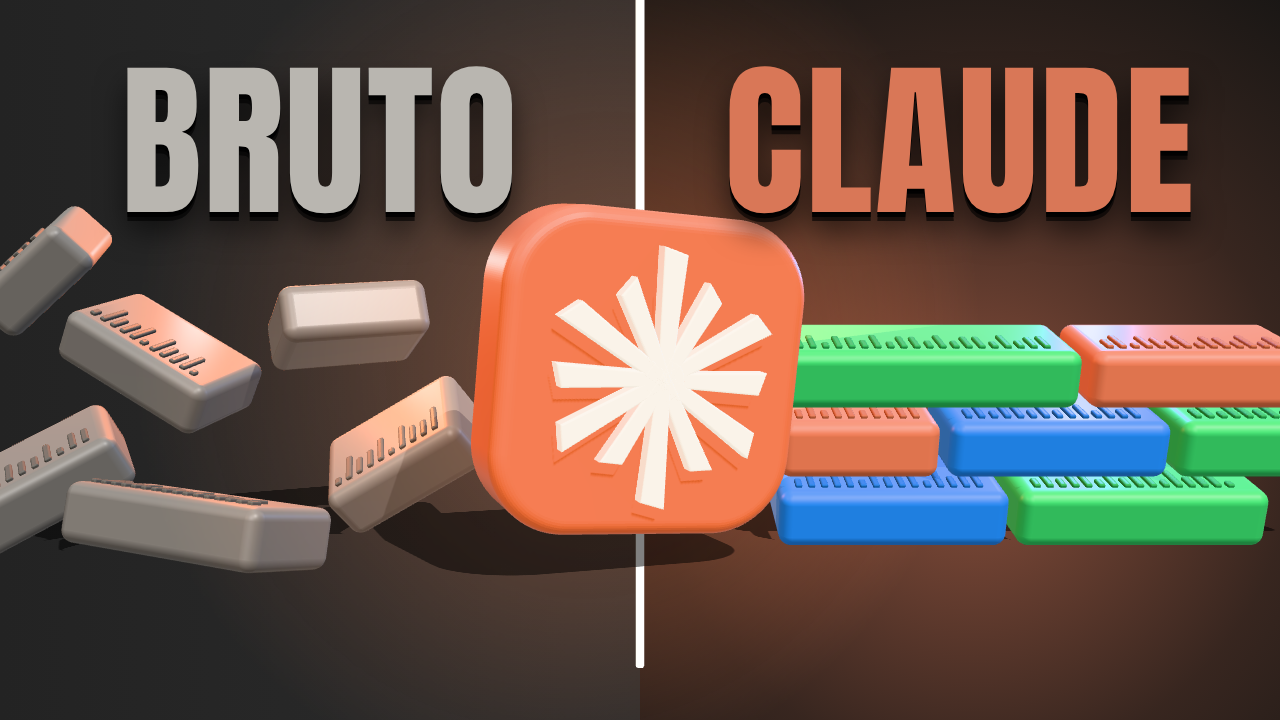
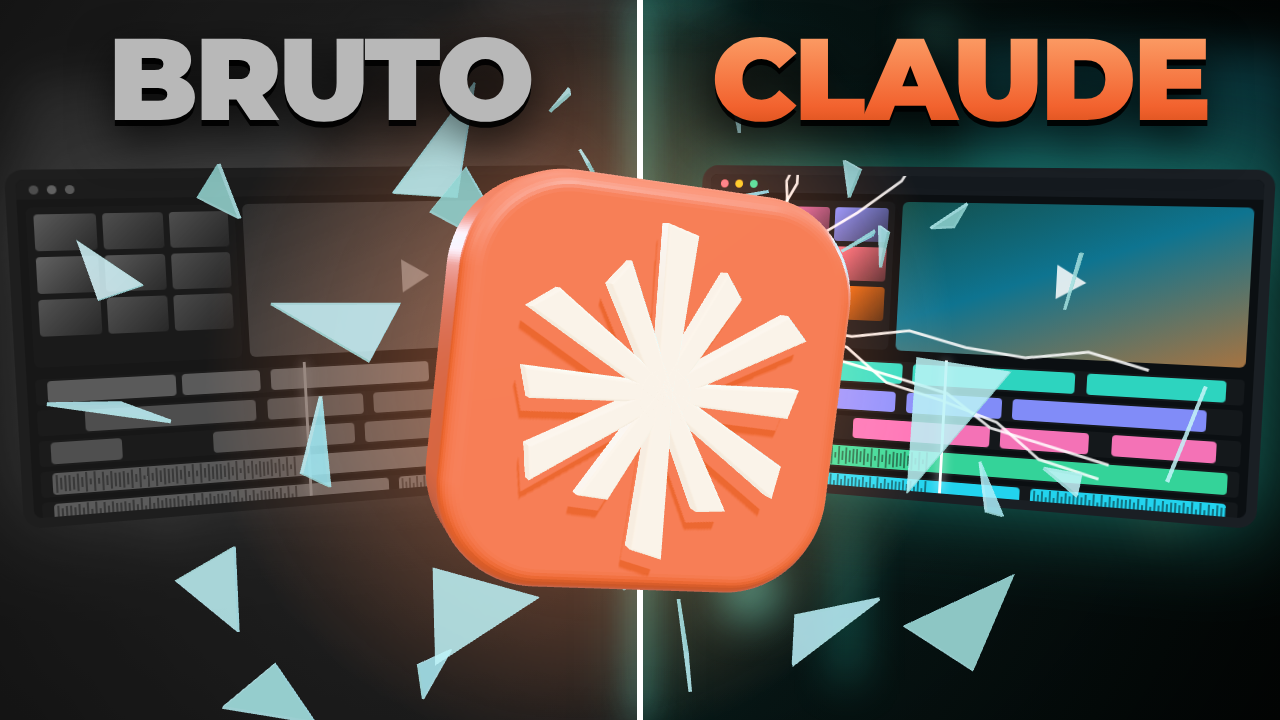
Capas remontadas em camadas: estúdio, tela de edição, bloco gigante e estilhaços
Claude-Session: https://claude.ai/code/session_01Vzt37Nfesv3FfTUpMH7K9L

diff --git a/video-claude-editor/src/Capa.tsx b/video-claude-editor/src/Capa.tsx
@@ -5,6 +5,9 @@ import {cores, vivas, fonte, fonteTitulo} from './tema';
 import {Icone3D} from './tres/Icone3D';
 import {DaVinci3D, Premiere3D} from './tres/Apps3D';
 import {Tela3D} from './tres/Tela3D';
+import {Mascote3D} from './tres/Mascote3D';
+import {Estilhacos} from './tres/Estilhacos';
+import {FundoEstudio, TelaEditor} from './capa/TelaEditor';
 import {Bloco, Clipe3D, Luzes, ChaoSombra} from './tres/pecas';
 import {Camera} from './tres/Camera';
 
@@ -26,114 +29,79 @@ const Etiqueta: React.FC<{children: React.ReactNode; left: number; top: number; 
   <div style={{position: 'absolute', left, top, background: cor, color: texto, fontFamily: fonte, fontWeight: 800, fontSize: tam, padding: '6px 30px', borderRadius: 16, transform: `rotate(${giro}deg)`, boxShadow: '0 5px 0 rgba(0,0,0,0.75), 0 16px 26px rgba(0,0,0,0.5)'}}>{children}</div>
 );
 
-// Capa A: personagem em cima da linha do tempo que se corta sozinha.
+const degradeLaranja: React.CSSProperties = {background: 'linear-gradient(180deg, #ffb27a 0%, #f2622e 70%, #c2410c 100%)', WebkitBackgroundClip: 'text', backgroundClip: 'text', color: 'transparent'};
+const textoForte = (tam: number): React.CSSProperties => ({
+  position: 'absolute',
+  fontFamily: 'Montserrat, sans-serif',
+  fontWeight: 900,
+  fontSize: tam,
+  lineHeight: 0.98,
+  letterSpacing: -3,
+  filter: 'drop-shadow(0 6px 0 rgba(0,0,0,0.9)) drop-shadow(0 14px 22px rgba(0,0,0,0.75))',
+});
+
+// Capa A: estúdio ao fundo, tela de edição estilhaçada, bloco do Claude gigante e mascote.
 export const CapaA: React.FC = () => (
   <AbsoluteFill style={{fontFamily: fonte}}>
-    <Fundo />
+    <FundoEstudio />
+    <div style={{position: 'absolute', inset: 0, perspective: 1500}}>
+      <TelaEditor larg={760} alt={450} impacto={[78, 46]} estilo={{left: 26, top: 22, transform: 'rotateY(16deg) rotateX(3deg) rotateZ(-2deg)', transformOrigin: 'left center'}} />
+    </div>
     <Tela3D>
-      <Camera pos={[-1.7, 2.7, 9.4]} alvo={[-0.95, 1.55, 0]} fov={34} />
-      <Luzes />
-      <ChaoSombra y={-0.62} />
-      {/* trilho */}
-      <Bloco tam={[30, 0.5, 2]} cor="#33302d" posicao={[0, -0.36, 0]} raio={0.12} rugosidade={0.8} />
-      <Clipe3D larg={2.6} cor={vivas.azul} posicao={[-5.5, 0.2, 0]} semente={1} />
-      <Clipe3D larg={2.9} cor={vivas.verde} posicao={[-2.6, 0.2, 0]} semente={2} />
-      <Clipe3D larg={1.5} cor={vivas.vermelho} posicao={[0.2, 0.75, 1.0]} rotacao={[0.55, 0.3, -0.42]} semente={3} />
-      <Clipe3D larg={4.6} cor={vivas.azul} posicao={[4.75, 0.2, 0]} semente={4} />
-      {/* agulha luminosa */}
-      <Bloco tam={[0.08, 2.0, 0.08]} cor={cores.creme} posicao={[2.15, 0.55, 0.9]} raio={0.03} emissivo={cores.creme} intensidade={2.2} sombra={false} />
-      <Icone3D posicao={[2.25, 2.72, 0.2]} rotacao={[0.12, -0.5, 0.14]} escala={1.12} />
+      <Camera pos={[0, 1.5, 12]} alvo={[0, 1.5, 0]} fov={34} />
+      <Luzes corA="#2dd4bf" corB="#22d3ee" forcaA={260} forcaB={220} />
+      <Estilhacos centro={[-0.15, 2.5, 0.5]} />
+      <Icone3D posicao={[-0.15, 2.5, 2.2]} rotacao={[0.12, 0.38, -0.16]} escala={1.45} brilho={0.4} halo={4.6} />
+      <Mascote3D posicao={[4.0, -1.75, 1.5]} rotacao={[0.04, -0.4, 0]} escala={2.15} />
     </Tela3D>
-    <Titulo>
-      <div>EDITADO</div>
-      <div>
-        POR <span style={{color: cores.laranja}}>IA</span>
-      </div>
-    </Titulo>
-    <Etiqueta left={66} top={398}>
-      0 editores
-    </Etiqueta>
+    <div style={{...textoForte(118), left: 44, top: 452}}>
+      <div style={{color: '#ffffff'}}>EDITADO</div>
+      <div style={degradeLaranja}>POR IA</div>
+    </div>
   </AbsoluteFill>
 );
 
-// Capa B: bruto de um lado, pronto do outro, personagem na divisa.
-const bagunca: [number, number, number, number, number, number, number][] = [
-  // x, y, z, rotX, rotY, rotZ, largura
-  [-6.3, 0.45, 0.2, 0.3, 0.5, 0.35, 2.0],
-  [-4.3, 0.2, 0.9, -0.2, -0.4, -0.12, 2.4],
-  [-2.5, 0.75, -0.2, 0.5, 0.2, 0.5, 1.6],
-  [-5.2, 1.7, -0.6, 0.2, -0.3, -0.45, 1.8],
-  [-3.1, 2.1, -0.3, -0.4, 0.4, 0.22, 1.5],
-  [-6.6, 2.7, -0.9, 0.3, 0.2, 0.7, 1.3],
-];
-const arrumado: [number, number, number, string][] = [
-  // x, y, largura, cor
-  [2.55, 0.3, 2.3, vivas.azul],
-  [5.05, 0.3, 2.5, vivas.verde],
-  [2.2, 1.0, 1.6, cores.laranja],
-  [4.2, 1.0, 2.2, vivas.azul],
-  [6.25, 1.0, 1.7, vivas.verde],
-  [2.9, 1.7, 3.0, vivas.verde],
-  [5.6, 1.7, 2.2, cores.laranja],
-];
-
+// Capa B: metade esquerda cinza (bruto), metade direita viva (Claude), bloco quebrando a divisa.
 export const CapaB: React.FC = () => (
   <AbsoluteFill style={{fontFamily: fonte}}>
-    <AbsoluteFill style={{background: 'linear-gradient(90deg, #232323 0%, #2c2c2c 50%, #141413 50%)'}} />
-    <AbsoluteFill style={{background: 'radial-gradient(circle at 76% 62%, rgba(217,119,87,0.6) 0%, rgba(217,119,87,0.18) 30%, rgba(20,20,19,0) 55%)', clipPath: 'inset(0 0 0 50%)'}} />
+    <FundoEstudio />
+    <div style={{position: 'absolute', inset: 0, perspective: 1500}}>
+      <TelaEditor larg={600} alt={360} estilo={{left: 14, top: 170, transform: 'rotateY(20deg) rotateZ(-3deg)', transformOrigin: 'left center'}} />
+      <TelaEditor larg={600} alt={360} impacto={[8, 45]} estilo={{left: 666, top: 170, transform: 'rotateY(-20deg) rotateZ(3deg)', transformOrigin: 'right center'}} />
+    </div>
+    <div style={{position: 'absolute', left: 0, top: 0, width: 640, height: 720, backdropFilter: 'grayscale(1) brightness(0.62) contrast(0.9)', background: 'rgba(30,30,30,0.25)'}} />
+    <div style={{position: 'absolute', left: 637, top: 0, width: 6, height: 720, background: '#fff', boxShadow: '0 0 30px #5eead4, 0 0 60px #5eead4'}} />
     <Tela3D>
-      <Camera pos={[0, 2.5, 12.2]} alvo={[0, 1.75, 0]} fov={34} />
-      <Luzes />
-      <ChaoSombra y={-0.05} opacidade={0.5} />
-      {bagunca.map(([x, y, z, rx, ry, rz, l], i) => (
-        <Clipe3D key={i} larg={l} cor={vivas.cinza} posicao={[x, y, z]} rotacao={[rx, ry, rz]} semente={i} />
-      ))}
-      {arrumado.map(([x, y, l, cor], i) => (
-        <Clipe3D key={i} larg={l} cor={cor} posicao={[x, y, 0]} rotacao={[0.25, 0, 0]} semente={i + 7} />
-      ))}
-      {/* divisa luminosa */}
-      <Bloco tam={[0.09, 9, 0.09]} cor={cores.creme} posicao={[0, 3, 0]} raio={0.03} emissivo={cores.creme} intensidade={2.4} sombra={false} />
-      <Icone3D posicao={[0, 1.75, 1.6]} rotacao={[0.08, 0.38, -0.1]} escala={1.3} />
+      <Camera pos={[0, 1.5, 12]} alvo={[0, 1.5, 0]} fov={34} />
+      <Luzes corA="#9ca3af" corB="#22d3ee" forcaA={160} forcaB={260} />
+      <Estilhacos centro={[0, 1.3, 0.5]} quantos={30} raioMin={2.1} raioMax={4.2} semente={3} />
+      <Icone3D posicao={[0, 1.3, 2.2]} rotacao={[0.1, 0.3, -0.12]} escala={1.5} brilho={0.4} halo={4.6} />
     </Tela3D>
-    <div style={{position: 'absolute', left: 0, width: 640, top: 14, textAlign: 'center', fontFamily: fonteTitulo, fontSize: 168, color: '#b9b6b0', textShadow: sombraTexto, letterSpacing: 2}}>BRUTO</div>
-    <div style={{position: 'absolute', left: 640, width: 640, top: 14, textAlign: 'center', fontFamily: fonteTitulo, fontSize: 168, color: cores.laranja, textShadow: sombraTexto, letterSpacing: 2}}>CLAUDE</div>
+    <div style={{...textoForte(116), left: 0, width: 640, top: 22, textAlign: 'center', color: '#b8b8b8'}}>BRUTO</div>
+    <div style={{...textoForte(116), left: 640, width: 640, top: 22, textAlign: 'center'}}>
+      <span style={degradeLaranja}>CLAUDE</span>
+    </div>
   </AbsoluteFill>
 );
 
-// Capa C: o bloco do Claude de pé, e os programas de edição caídos e rachados.
-const cacos: [number, number, number, number, string][] = [
-  // x, y, z, tamanho, cor
-  [-5.4, 0.12, 2.6, 0.34, '#2a2360'],
-  [-1.7, 0.1, 3.0, 0.26, '#2a2360'],
-  [-2.3, 0.14, 0.4, 0.4, '#8f8fe6'],
-  [-0.6, 0.1, 3.4, 0.22, '#3a3f49'],
-  [2.6, 0.12, 3.1, 0.3, '#3a3f49'],
-  [3.3, 0.1, 2.2, 0.2, '#e8b53a'],
-  [-4.6, 0.1, 3.5, 0.2, '#8f8fe6'],
-  [1.6, 0.1, 3.7, 0.24, '#d9566a'],
-];
-
+// Capa C: bloco do Claude brilhando, e os programas de edição caídos e rachados.
 export const CapaC: React.FC = () => (
   <AbsoluteFill style={{fontFamily: fonte}}>
-    <Fundo brilhoX={78} brilhoY={32} />
-    <AbsoluteFill style={{background: 'radial-gradient(circle at 78% 32%, rgba(255,150,90,0.5) 0%, rgba(255,150,90,0) 30%)'}} />
+    <FundoEstudio />
+    <div style={{position: 'absolute', inset: 0, perspective: 1500, filter: 'brightness(0.6)'}}>
+      <TelaEditor larg={660} alt={390} impacto={[40, 40]} estilo={{left: 590, top: 40, transform: 'rotateY(-16deg) rotateZ(2deg)', transformOrigin: 'right center'}} />
+    </div>
     <Tela3D>
-      <Camera pos={[0, 2.5, 11.5]} alvo={[0, 1.75, 0]} fov={34} />
-      <Luzes />
-      <ChaoSombra y={0} opacidade={0.55} />
-      <Premiere3D rachado vida={0.25} posicao={[-3.7, 0.72, 2.0]} rotacao={[-0.86, 0.3, 0.24]} escala={1.18} />
-      <DaVinci3D rachado vida={0.25} posicao={[0.75, 0.85, 2.6]} rotacao={[-0.88, -0.28, -0.32]} escala={1.12} />
-      {cacos.map(([x, y, z, t, cor], i) => (
-        <mesh key={i} position={[x, y, z]} rotation={[i * 0.7, i * 1.3, i * 0.5]} scale={[1, 0.35, 0.8]} castShadow>
-          <tetrahedronGeometry args={[t * 0.9]} />
-          <meshStandardMaterial color={cor} roughness={0.5} />
-        </mesh>
-      ))}
-      <Icone3D posicao={[3.9, 3.05, 0]} rotacao={[0.1, -0.48, 0.12]} escala={1.42} brilho={0.5} />
+      <Camera pos={[0, 1.5, 12]} alvo={[0, 1.5, 0]} fov={34} />
+      <Luzes corA="#2dd4bf" corB="#22d3ee" forcaA={240} forcaB={220} />
+      <Estilhacos centro={[-1.3, -0.4, 1]} quantos={26} raioMin={1.6} raioMax={5} semente={5} />
+      <Premiere3D rachado vida={0.3} posicao={[-4.0, 0.15, 2.0]} rotacao={[-0.42, 0.42, 0.3]} escala={1.15} />
+      <DaVinci3D rachado vida={0.3} posicao={[-0.5, -0.25, 2.6]} rotacao={[-0.5, -0.2, -0.3]} escala={1.12} />
+      <Icone3D posicao={[3.75, 2.55, 2]} rotacao={[0.1, -0.42, 0.12]} escala={1.5} brilho={0.5} halo={5} />
     </Tela3D>
-    <Titulo tam={160} left={58} top={12}>
-      <div>ADEUS,</div>
-      <div style={{color: cores.laranja}}>EDITOR</div>
-    </Titulo>
+    <div style={{...textoForte(112), left: 44, top: 22}}>
+      <div style={{color: '#ffffff'}}>ADEUS,</div>
+      <div style={degradeLaranja}>EDITOR</div>
+    </div>
   </AbsoluteFill>
 );

diff --git a/video-claude-editor/src/capa/TelaEditor.tsx b/video-claude-editor/src/capa/TelaEditor.tsx
@@ -1,0 +1,95 @@
+import React from 'react';
+
+// Monitor com um programa de edição genérico, desenhado em HTML.
+// Não imita nenhum programa específico.
+const faixa = (cor: string, clipes: [number, number][], onda = false) => (
+  <div style={{position: 'relative', height: 26, marginBottom: 5, background: 'rgba(255,255,255,0.04)', borderRadius: 4}}>
+    {clipes.map(([x, w], i) => (
+      <div key={i} style={{position: 'absolute', left: `${x}%`, width: `${w}%`, top: 2, bottom: 2, background: cor, borderRadius: 4, overflow: 'hidden', display: 'flex', alignItems: 'center', gap: 2, padding: '0 3px'}}>
+        {onda
+          ? Array.from({length: 60}).map((_, k) => <div key={k} style={{width: 2, flexShrink: 0, height: 4 + Math.abs(Math.sin(k * 1.7 + i * 3 + x)) * 16, background: 'rgba(0,0,0,0.45)'}} />)
+          : null}
+      </div>
+    ))}
+  </div>
+);
+
+export const TelaEditor: React.FC<{
+  larg: number;
+  alt: number;
+  estilo?: React.CSSProperties;
+  impacto?: [number, number]; // ponto da rachadura, em % da tela
+}> = ({larg, alt, estilo, impacto}) => {
+  const miniaturas = ['#2dd4bf', '#f472b6', '#818cf8', '#fbbf24', '#34d399', '#fb7185', '#60a5fa', '#a78bfa', '#f97316'];
+  return (
+    <div style={{position: 'absolute', width: larg, height: alt, ...estilo}}>
+      <div
+        style={{
+          position: 'absolute',
+          inset: 0,
+          background: '#0b0f12',
+          borderRadius: 18,
+          border: '10px solid #1a1f24',
+          boxShadow: '0 0 90px rgba(45,212,191,0.55), 0 30px 60px rgba(0,0,0,0.7)',
+          overflow: 'hidden',
+        }}
+      >
+        <div style={{height: '6%', background: '#151a1f', display: 'flex', alignItems: 'center', gap: 8, paddingLeft: 12}}>
+          {['#fb7185', '#fbbf24', '#34d399'].map((c) => (
+            <div key={c} style={{width: 9, height: 9, borderRadius: 5, background: c}} />
+          ))}
+        </div>
+        <div style={{display: 'flex', height: '52%', gap: 8, padding: 8}}>
+          <div style={{width: '36%', background: '#11161a', borderRadius: 6, padding: 7, display: 'grid', gridTemplateColumns: 'repeat(3, 1fr)', gap: 6, alignContent: 'start'}}>
+            {miniaturas.map((c, i) => (
+              <div key={i} style={{aspectRatio: '16 / 10', borderRadius: 4, background: `linear-gradient(135deg, ${c}, #0b0f12 140%)`}} />
+            ))}
+          </div>
+          <div style={{flex: 1, borderRadius: 6, background: 'linear-gradient(160deg, #134e4a 0%, #0e7490 45%, #f97316 130%)', position: 'relative', overflow: 'hidden'}}>
+            <div style={{position: 'absolute', left: '50%', top: '50%', width: 0, height: 0, marginLeft: -12, marginTop: -18, borderLeft: '30px solid rgba(255,255,255,0.85)', borderTop: '18px solid transparent', borderBottom: '18px solid transparent'}} />
+          </div>
+        </div>
+        <div style={{height: '42%', padding: '4px 8px', position: 'relative'}}>
+          {faixa('#2dd4bf', [[2, 22], [25, 14], [41, 30], [73, 24]])}
+          {faixa('#818cf8', [[8, 30], [40, 18], [60, 34]])}
+          {faixa('#f472b6', [[2, 12], [30, 26], [58, 16], [78, 18]])}
+          {faixa('#34d399', [[2, 96]], true)}
+          {faixa('#22d3ee', [[2, 60], [64, 34]], true)}
+          <div style={{position: 'absolute', left: '47%', top: 0, bottom: 0, width: 3, background: '#fff', boxShadow: '0 0 12px #fff'}} />
+        </div>
+        {impacto ? (
+          <svg viewBox="0 0 100 100" preserveAspectRatio="none" style={{position: 'absolute', inset: 0, width: '100%', height: '100%'}}>
+            {Array.from({length: 13}).map((_, i) => {
+              let a = (i / 13) * Math.PI * 2 + 0.3;
+              let [x, y] = impacto;
+              let d = `M ${x} ${y}`;
+              for (let k = 0; k < 7; k++) {
+                a += Math.sin(i * 4.3 + k * 2.1) * 0.5;
+                x += Math.cos(a) * 11;
+                y += Math.sin(a) * 15;
+                d += ` L ${x.toFixed(1)} ${y.toFixed(1)}`;
+              }
+              return <path key={i} d={d} fill="none" stroke="rgba(255,255,255,0.85)" vectorEffect="non-scaling-stroke" style={{strokeWidth: 3}} />;
+            })}
+          </svg>
+        ) : null}
+      </div>
+    </div>
+  );
+};
+
+// Fundo de estúdio desfocado: monitores e luzes ao longe.
+export const FundoEstudio: React.FC = () => (
+  <div style={{position: 'absolute', inset: 0, background: 'radial-gradient(circle at 30% 45%, #0f3d3a 0%, #071615 55%, #040908 100%)', overflow: 'hidden'}}>
+    <div style={{position: 'absolute', inset: -40, filter: 'blur(22px)'}}>
+      <div style={{position: 'absolute', left: 60, top: 120, width: 300, height: 190, background: 'linear-gradient(160deg, #2dd4bf, #0e7490)', borderRadius: 10, opacity: 0.55}} />
+      <div style={{position: 'absolute', left: 1010, top: 90, width: 330, height: 210, background: 'linear-gradient(200deg, #22d3ee, #134e4a)', borderRadius: 10, opacity: 0.5}} />
+      <div style={{position: 'absolute', left: 520, top: 30, width: 240, height: 12, background: '#5eead4', opacity: 0.8}} />
+      <div style={{position: 'absolute', left: 880, top: 420, width: 14, height: 300, background: '#2dd4bf', opacity: 0.7}} />
+      {[[180, 520, 26], [420, 80, 18], [760, 600, 30], [1180, 520, 22], [960, 60, 16], [80, 380, 14]].map(([x, y, r], i) => (
+        <div key={i} style={{position: 'absolute', left: x, top: y, width: r * 2, height: r * 2, borderRadius: '50%', background: i % 2 ? '#fb923c' : '#5eead4', opacity: 0.55}} />
+      ))}
+    </div>
+    <div style={{position: 'absolute', inset: 0, background: 'radial-gradient(circle at 50% 50%, rgba(0,0,0,0) 40%, rgba(0,0,0,0.6) 100%)'}} />
+  </div>
+);

diff --git a/video-claude-editor/src/tres/Estilhacos.tsx b/video-claude-editor/src/tres/Estilhacos.tsx
@@ -1,0 +1,43 @@
+import React, {useMemo} from 'react';
+import * as THREE from 'three';
+
+// Estilhaços de vidro espalhados em volta de um ponto.
+const aleatorio = (n: number) => {
+  const x = Math.sin(n * 127.1 + 311.7) * 43758.5453;
+  return x - Math.floor(x);
+};
+
+export const Estilhacos: React.FC<{centro: [number, number, number]; quantos?: number; raioMin?: number; raioMax?: number; semente?: number}> = ({centro, quantos = 34, raioMin = 2, raioMax = 4.6, semente = 1}) => {
+  const geo = useMemo(() => {
+    const f = new THREE.Shape();
+    f.moveTo(0, 0.5);
+    f.lineTo(0.32, -0.35);
+    f.lineTo(-0.42, -0.2);
+    f.closePath();
+    return new THREE.ExtrudeGeometry(f, {depth: 0.03, bevelEnabled: false});
+  }, []);
+  const mat = useMemo(
+    () => new THREE.MeshPhysicalMaterial({color: '#c9f3ff', roughness: 0.05, metalness: 0.1, transparent: true, opacity: 0.62, emissive: '#5eead4', emissiveIntensity: 0.35, side: THREE.DoubleSide, envMapIntensity: 2.5}),
+    []
+  );
+  return (
+    <group position={centro}>
+      {Array.from({length: quantos}).map((_, i) => {
+        const k = i + semente * 100;
+        const ang = (i / quantos) * Math.PI * 2 + aleatorio(k) * 0.5;
+        const r = raioMin + aleatorio(k + 1) * (raioMax - raioMin);
+        const tam = 0.35 + aleatorio(k + 2) * 0.95;
+        return (
+          <mesh
+            key={i}
+            geometry={geo}
+            material={mat}
+            position={[Math.cos(ang) * r * 1.15, Math.sin(ang) * r * 0.8, -0.6 + aleatorio(k + 3) * 2.6]}
+            rotation={[aleatorio(k + 4) * 3, aleatorio(k + 5) * 3, ang + aleatorio(k + 6) * 2]}
+            scale={[tam, tam * (0.6 + aleatorio(k + 7)), 1]}
+          />
+        );
+      })}
+    </group>
+  );
+};

diff --git a/video-claude-editor/src/tres/Icone3D.tsx b/video-claude-editor/src/tres/Icone3D.tsx
@@ -46,12 +46,13 @@ export const Icone3D: React.FC<{
   rotacao?: [number, number, number];
   escala?: number;
   brilho?: number; // 0 a 1: quanto o bloco e a estrela emitem luz
-}> = ({posicao = [0, 0, 0], rotacao = [0, 0, 0], escala = 1, brilho = 0.25}) => {
+  halo?: number; // tamanho do brilho atrás do bloco; 0 desliga
+}> = ({posicao = [0, 0, 0], rotacao = [0, 0, 0], escala = 1, brilho = 0.25, halo = 6.5}) => {
   const corpo = useMemo(() => placa(2.2, 2.2, 0.56, 0.42, 0.12), []);
   const estrela = useMemo(() => formaEstrela().map((f) => extrudar(f, 0.1, 0.016)), []);
   return (
     <group position={posicao} rotation={rotacao} scale={escala}>
-      {brilho > 0 ? <Halo cor="#ff7a3d" tam={6.5} forca={Math.min(1, brilho * 1.6)} /> : null}
+      {brilho > 0 && halo > 0 ? <Halo cor="#ff7a3d" tam={halo} forca={Math.min(1, brilho * 1.6)} /> : null}
       <mesh geometry={corpo} castShadow receiveShadow>
         <meshPhysicalMaterial color="#ea7648" roughness={0.42} clearcoat={0.35} clearcoatRoughness={0.4} emissive="#d2470f" emissiveIntensity={brilho} />
       </mesh>

diff --git a/video-claude-editor/src/tres/pecas.tsx b/video-claude-editor/src/tres/pecas.tsx
@@ -43,7 +43,7 @@ export const Clipe3D: React.FC<{
   );
 };
 
-export const Luzes: React.FC = () => (
+export const Luzes: React.FC<{corA?: string; corB?: string; forcaA?: number; forcaB?: number}> = ({corA = '#ff8a4c', corB = '#7ab0ff', forcaA = 160, forcaB = 120}) => (
   <>
     <ambientLight intensity={0.25} />
     <directionalLight
@@ -61,8 +61,8 @@ export const Luzes: React.FC = () => (
       shadow-radius={9}
     />
     <directionalLight position={[-6, 4, 5]} intensity={0.7} color="#ffe2cc" />
-    <pointLight position={[-5, 4, -3]} intensity={160} color="#ff8a4c" />
-    <pointLight position={[6, 4, -3]} intensity={120} color="#7ab0ff" />
+    <pointLight position={[-5, 4, -3]} intensity={forcaA} color={corA} />
+    <pointLight position={[6, 4, -3]} intensity={forcaB} color={corB} />
   </>
 );
 

diff --git a/video-claude-editor/src/tres/Apps3D.tsx b/video-claude-editor/src/tres/Apps3D.tsx
@@ -27,7 +27,7 @@ const Rachaduras: React.FC<{origem: [number, number]; semente: number; z: number
         if (Math.abs(x) > 0.98 || Math.abs(y) > 0.98) break;
         pts.push(new THREE.Vector3(x, y, 0));
       }
-      if (pts.length > 2) lista.push(new THREE.TubeGeometry(new THREE.CatmullRomCurve3(pts, false, 'catmullrom', 0.05), 60, 0.028, 5, false));
+      if (pts.length > 2) lista.push(new THREE.TubeGeometry(new THREE.CatmullRomCurve3(pts, false, 'catmullrom', 0.05), 60, 0.04, 5, false));
     }
     return lista;
   }, [origem[0], origem[1], semente]);

diff --git a/video-claude-editor/src/fontes.ts b/video-claude-editor/src/fontes.ts
@@ -2,3 +2,4 @@ import '@fontsource/anton/400.css';
 import '@fontsource/poppins/500.css';
 import '@fontsource/poppins/700.css';
 import '@fontsource/poppins/800.css';
+import '@fontsource/montserrat/900.css';

diff --git a/video-claude-editor/publicacao.md b/video-claude-editor/publicacao.md
@@ -16,11 +16,13 @@ O título 2 passa de 70 caracteres e pode aparecer cortado em algumas telas. A p
 
 | Opção | Arquivo | Ideia | Texto |
 |---|---|---|---|
-| A | capa/capa-a.png | Bloco do Claude em cima da linha do tempo, com o trecho vermelho cortado caindo | EDITADO POR IA, 0 editores |
-| B | capa/capa-b.png | Metade cinza com clipes bagunçados, metade colorida com clipes arrumados, bloco do Claude na divisa | BRUTO, CLAUDE |
-| C | capa/capa-c.png | Bloco do Claude de pé e brilhando, com os ícones do Premiere e do DaVinci caídos e rachados no chão | ADEUS, EDITOR |
+| A | capa/capa-a.png | Tela de edição estilhaçada, bloco do Claude gigante atravessando a tela, mascote à direita | EDITADO POR IA |
+| B | capa/capa-b.png | Metade esquerda cinza com a tela apagada, metade direita colorida, bloco do Claude quebrando a divisa | BRUTO, CLAUDE |
+| C | capa/capa-c.png | Bloco do Claude brilhando na frente de uma tela rachada, Premiere e DaVinci caídos e rachados | ADEUS, EDITOR |
 
-Todas em 1280x720, em 3D, geradas por código em `src/Capa.tsx`.
+Todas em 1280x720, geradas por código em `src/Capa.tsx`.
+
+Estrutura comum, tirada das capas de referência que o Cristian enviou: fundo de estúdio desfocado em azul-esverdeado, tela de programa de edição, objeto principal ocupando quase metade da altura, estilhaços de vidro, e texto de duas linhas em branco e laranja com degradê.
 
 ## Pares sugeridos
 
